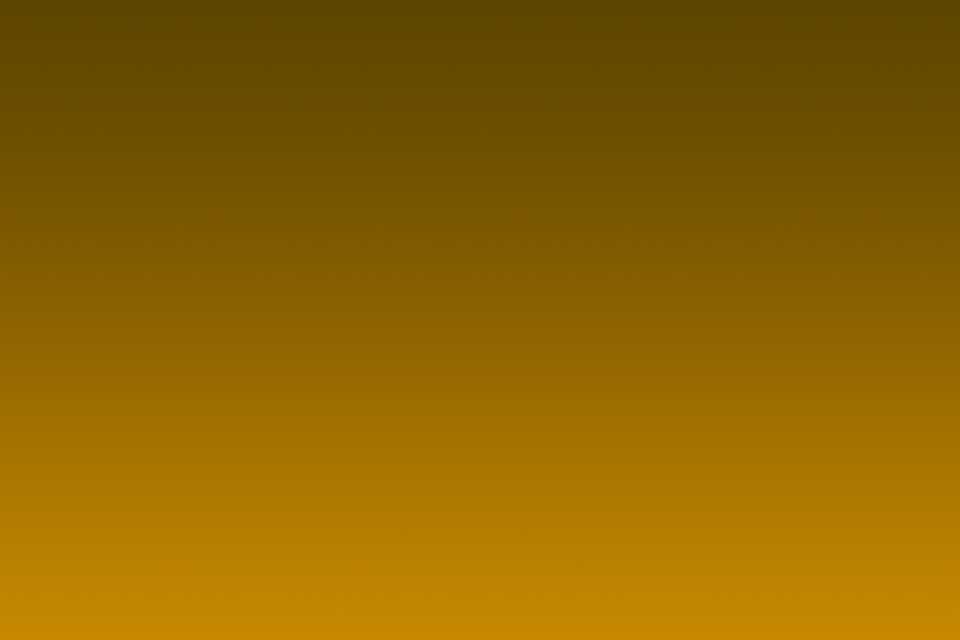
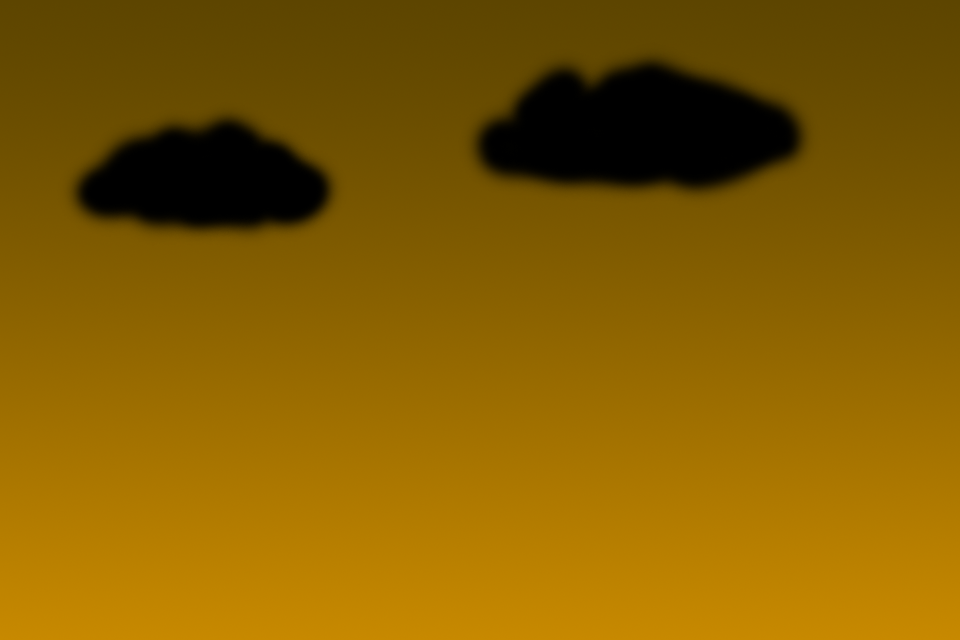
Enemies sorta move towards you now

Changed region(s): [[0.4688, 0.0938, 0.8438, 0.3125], [0.0625, 0.1562, 0.375, 0.375]]

diff --git a/build/js/main.js b/build/js/main.js
@@ -1,1 +1,1 @@
-!function t(e,i,a){function r(n,o){if(!i[n]){if(!e[n]){var u="function"==typeof require&&require;if(!o&&u)return u(n,!0);if(s)return s(n,!0);throw new Error("Cannot find module '"+n+"'")}var l=i[n]={exports:{}};e[n][0].call(l.exports,function(t){var i=e[n][1][t];return r(i?i:t)},l,l.exports,t,e,i,a)}return i[n].exports}for(var s="function"==typeof require&&require,n=0;n<a.length;n++)r(a[n]);return r}({1:[function(t){(function(e){var i,a,r,s,n;e.Axe={},i=t("./boot"),r=t("./load"),s=t("./menu"),n=t("./play"),a=new Phaser.Game(960,640,Phaser.AUTO,"game"),a.state.add("boot",i),a.state.add("load",r),a.state.add("menu",s),a.state.add("play",n),a.state.start("boot")}).call(this,"undefined"!=typeof self?self:"undefined"!=typeof window?window:{})},{"./boot":2,"./load":3,"./menu":4,"./play":5}],2:[function(t,e){var i;i=function(){function t(){}return t.prototype.create=function(){return this.input.maxPointers=1,this.scale.scaleMode=Phaser.ScaleManager.SHOW_ALL,this.scale.pageAlignHorizontally=!0,this.scale.pageAlignVertically=!0,this.scale.setScreenSize(!0),this.state.start("load")},t.prototype.preload=function(){return this.load.image("preloaderBar","images/loading-bar.png")},t}(),e.exports=i},{}],3:[function(t,e){var i;i=function(){function t(){Axe.GAME_WIDTH=960,Axe.GAME_HEIGHT=640}return t.prototype.create=function(){return this.state.start("menu")},t.prototype.preload=function(){return this.stage.backgroundColor="#444444",this.preloadBar=this.add.sprite((Axe.GAME_WIDTH-311)/2,(Axe.GAME_HEIGHT-27)/2,"preloaderBar"),this.load.setPreloadSprite(this.preloadBar),this.load.image("background","images/background.png"),this.load.image("floor","images/floor.png"),this.load.image("monster-cover","images/monster-cover.png"),this.load.image("title","images/title.png"),this.load.image("game-over","images/gameover.png"),this.load.image("score-bg","images/score-bg.png"),this.load.image("button-pause","images/button-pause.png"),this.load.spritesheet("candy","images/candy.png",82,98),this.load.spritesheet("monster-idle","images/monster-idle.png",103,131),this.load.spritesheet("button-start","images/button-start.png",401,143)},t}(),e.exports=i},{}],4:[function(t,e){var i;i=function(){function t(){}return t.prototype.create=function(){return this.add.sprite((Axe.GAME_WIDTH-395)/2,60,"title"),this.add.button(this.world.centerX-95,this.world.centerY+100,"button-start",this.startGame,this,1,0,2)},t.prototype.startGame=function(){return console.log("CLICKED"),this.state.start("play")},t}(),e.exports=i},{}],5:[function(t,e){var i;i=function(){function t(){this.player=null,this.spawnTimer=null,this.mobGroup=null,this.fontStyle=null,this.scoreText=null,this.score=0,this.health=0}return t.prototype.create=function(){return console.log("GAME STARTED"),this.physics.startSystem(Phaser.Physics.ARCADE),this.physics.arcade.gravity.y=200,this.background=this.add.tileSprite(0,0,Axe.GAME_WIDTH,Axe.GAME_HEIGHT,"background"),this.floor=this.add.tileSprite(0,Axe.GAME_HEIGHT-80,Axe.GAME_WIDTH,83,"floor"),this.add.sprite(10,5,"score-bg"),this.add.button(Axe.GAME_WIDTH-96-10,5,"button-pause",this.managePause,this),this.player=this.add.sprite(5,Axe.GAME_HEIGHT-160,"monster-idle"),this.player.animations.add("idle",[0,1,2,3,4,5,6,7,8,9,10,11,12],10,!0),this.player.animations.play("idle"),this.fontStyle={font:"40px Arial",fill:"#FFCC00",stroke:"#333",strokeThickness:5,align:"center"},this.spawnTimer=0,this.mobGroup=this.add.group(),this.scoreText=this.add.text(120,20,"0",this.fontStyle),this.score=0,this.health=100},t.prototype.managePause=function(){var t;return this.game.paused=!0,this.pausedText=this.add.text(100,250,"Game paused.\nClick anywhere to continue.",this.fontStyle),t=this,this.input.onDown.add(function(){return t.pausedText.destroy(),t.game.paused=!1})},t.prototype.update=function(){return this.spawnTimer+=this.time.elapsed,this.spawnTimer>1e3&&(this.spawnTimer=0),this.mobGroup.forEach(function(){return function(t){return t.angle+=t.rotateMe}}(this)),this.health<=0?(this.add.sprite((Candy.GAME_WIDTH-594)/2,(Candy.GAME_HEIGHT-271)/2,"game-over"),this.game.paused=!0):void 0},t}(),e.exports=i},{}]},{},[1]);
+!function t(e,s,i){function r(a,n){if(!s[a]){if(!e[a]){var h="function"==typeof require&&require;if(!n&&h)return h(a,!0);if(o)return o(a,!0);throw new Error("Cannot find module '"+a+"'")}var l=s[a]={exports:{}};e[a][0].call(l.exports,function(t){var s=e[a][1][t];return r(s?s:t)},l,l.exports,t,e,s,i)}return s[a].exports}for(var o="function"==typeof require&&require,a=0;a<i.length;a++)r(i[a]);return r}({1:[function(t){(function(e){var s,i,r,o,a;e.Axe={},s=t("./boot"),r=t("./load"),o=t("./menu"),a=t("./play"),i=new Phaser.Game(960,640,Phaser.AUTO,"game"),i.state.add("boot",s),i.state.add("load",r),i.state.add("menu",o),i.state.add("play",a),i.state.start("boot")}).call(this,"undefined"!=typeof self?self:"undefined"!=typeof window?window:{})},{"./boot":2,"./load":3,"./menu":4,"./play":6}],2:[function(t,e){var s;s=function(){function t(){}return t.prototype.create=function(){return this.input.maxPointers=1,this.scale.scaleMode=Phaser.ScaleManager.SHOW_ALL,this.scale.pageAlignHorizontally=!0,this.scale.pageAlignVertically=!0,this.scale.setScreenSize(!0),this.state.start("load")},t.prototype.preload=function(){return this.load.image("preloaderBar","images/loading-bar.png")},t}(),e.exports=s},{}],3:[function(t,e){var s;s=function(){function t(){Axe.GAME_WIDTH=960,Axe.GAME_HEIGHT=640}return t.prototype.create=function(){return this.state.start("menu")},t.prototype.preload=function(){return this.stage.backgroundColor="#444444",this.preloadBar=this.add.sprite((Axe.GAME_WIDTH-311)/2,(Axe.GAME_HEIGHT-27)/2,"preloaderBar"),this.load.setPreloadSprite(this.preloadBar),this.load.image("background","images/background.png"),this.load.image("floor","images/floor.png"),this.load.image("title","images/title.png"),this.load.image("game-over","images/gameover.png"),this.load.image("score-bg","images/score-bg.png"),this.load.image("button-pause","images/button-pause.png"),this.load.image("player","images/player.png"),this.load.image("enemy","images/enemy.png"),this.load.spritesheet("candy","images/candy.png",82,98),this.load.spritesheet("button-start","images/button-start.png",401,143)},t}(),e.exports=s},{}],4:[function(t,e){var s;s=function(){function t(){}return t.prototype.create=function(){return this.add.sprite(0,0,"background"),this.add.sprite((Axe.GAME_WIDTH-395)/2,60,"title"),this.add.button(this.world.centerX-200,this.world.centerY+100,"button-start",this.startGame,this,1,0,2)},t.prototype.startGame=function(){return this.state.start("play")},t}(),e.exports=s},{}],5:[function(t,e){var s;s=function(){function t(){}return t.prototype.spawnEnemy=function(t){var e,s;return s=Math.random()>.5?Axe.GAME_WIDTH-30:30,e=t.add.sprite(s,Axe.GAME_HEIGHT-80,"enemy"),e.anchor.setTo(.5,1),t.physics.enable(e,Phaser.Physics.ARCADE),t.mobGroup.add(e)},t}(),e.exports=s},{}],6:[function(t,e){var s,i;i=t("./mobs"),s=function(){function t(){this.player=null,this.spawnTimer=null,this.mobGroup=null,this.fontStyle=null,this.scoreText=null,this.score=0,this.health=0}return t.prototype.create=function(){return console.log("GAME STARTED"),this.mobs=new i,this.physics.startSystem(Phaser.Physics.ARCADE),this.physics.arcade.gravity.y=200,this.background=this.add.tileSprite(0,0,Axe.GAME_WIDTH,Axe.GAME_HEIGHT,"background"),this.floor=this.add.tileSprite(0,Axe.GAME_HEIGHT-80,Axe.GAME_WIDTH,83,"floor"),this.add.sprite(10,5,"score-bg"),this.physics.enable(this.floor,Phaser.Physics.ARCADE),this.floor.body.allowGravity=!1,this.floor.body.immovable=!0,this.add.button(Axe.GAME_WIDTH-106,5,"button-pause",this.managePause,this),this.player=this.add.sprite(Axe.GAME_WIDTH/2,Axe.GAME_HEIGHT-83,"player"),this.player.anchor.setTo(.5,1),this.physics.enable(this.player,Phaser.Physics.ARCADE),this.player.immovable=!0,this.fontStyle={font:"40px Arial",fill:"#FFCC00",stroke:"#333",strokeThickness:5,align:"center"},this.spawnTimer=0,this.mobGroup=this.add.group(),this.scoreText=this.add.text(120,20,"0",this.fontStyle),this.score=0,this.health=100,this.cursors=this.input.keyboard.createCursorKeys(),this.mobs.spawnEnemy(this)},t.prototype.managePause=function(){var t;return this.game.paused=!0,this.pausedText=this.add.text(Axe.GAME_WIDTH/4,250,"Game paused.\nClick anywhere to continue.",this.fontStyle),t=this,this.input.onDown.add(function(){return t.pausedText.destroy(),t.game.paused=!1})},t.prototype.update=function(){return this.physics.arcade.collide(this.player,this.floor),this.cursors.left.isDown&&(this.player.scale.x=-1,this.background.tilePosition.x+=3,this.floor.tilePosition.x+=3),this.cursors.right.isDown&&(this.player.scale.x=1,this.background.tilePosition.x-=3,this.floor.tilePosition.x-=3),this.spawnTimer+=this.time.elapsed,this.spawnTimer>1e3&&(this.spawnTimer=0,this.mobs.spawnEnemy(this)),this.mobGroup.forEach(function(t){return function(e){return t.physics.arcade.collide(e,t.floor),t.cursors.left.isDown&&t.physics.arcade.moveToObject(e,t.player,60),t.cursors.right.isDown?t.physics.arcade.moveToObject(e,t.player,60):void 0}}(this)),this.health<=0?(this.add.sprite((Axe.GAME_WIDTH-594)/2,(Axe.GAME_HEIGHT-271)/2,"game-over"),this.game.paused=!0):void 0},t}(),e.exports=s},{"./mobs":5}]},{},[1]);

diff --git a/build/css/main.css b/build/css/main.css
@@ -1,1 +1,1 @@
-body{background:#CCC}
+body{background:#CCC;margin:0;overflow:hidden}

diff --git a/src/styles/app.less b/src/styles/app.less
@@ -1,3 +1,5 @@
 body {
 	background: #CCC;
+	margin: 0;
+	overflow: hidden;
 }
